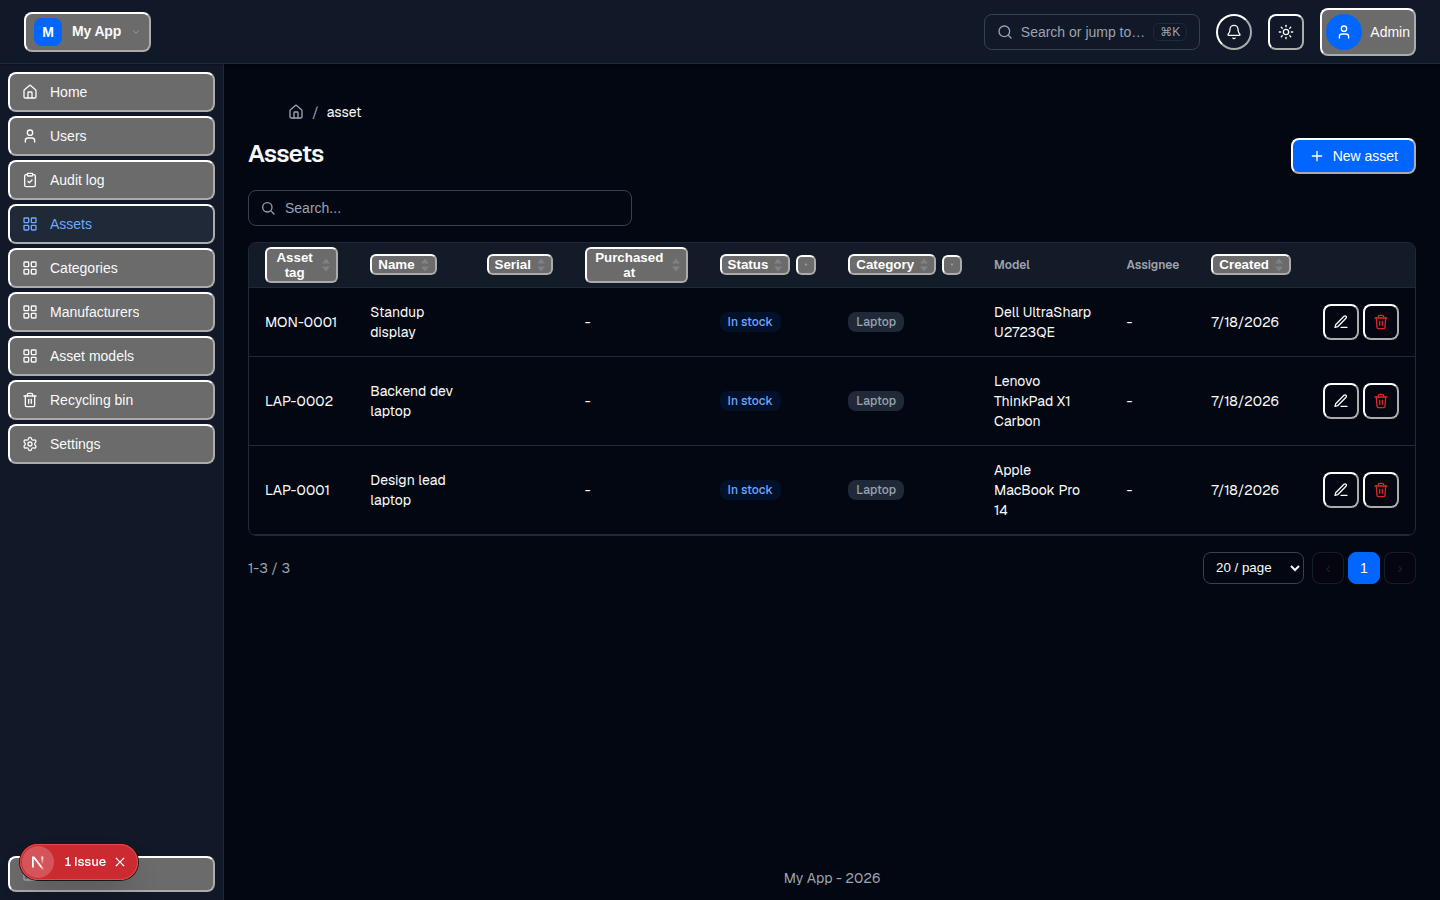
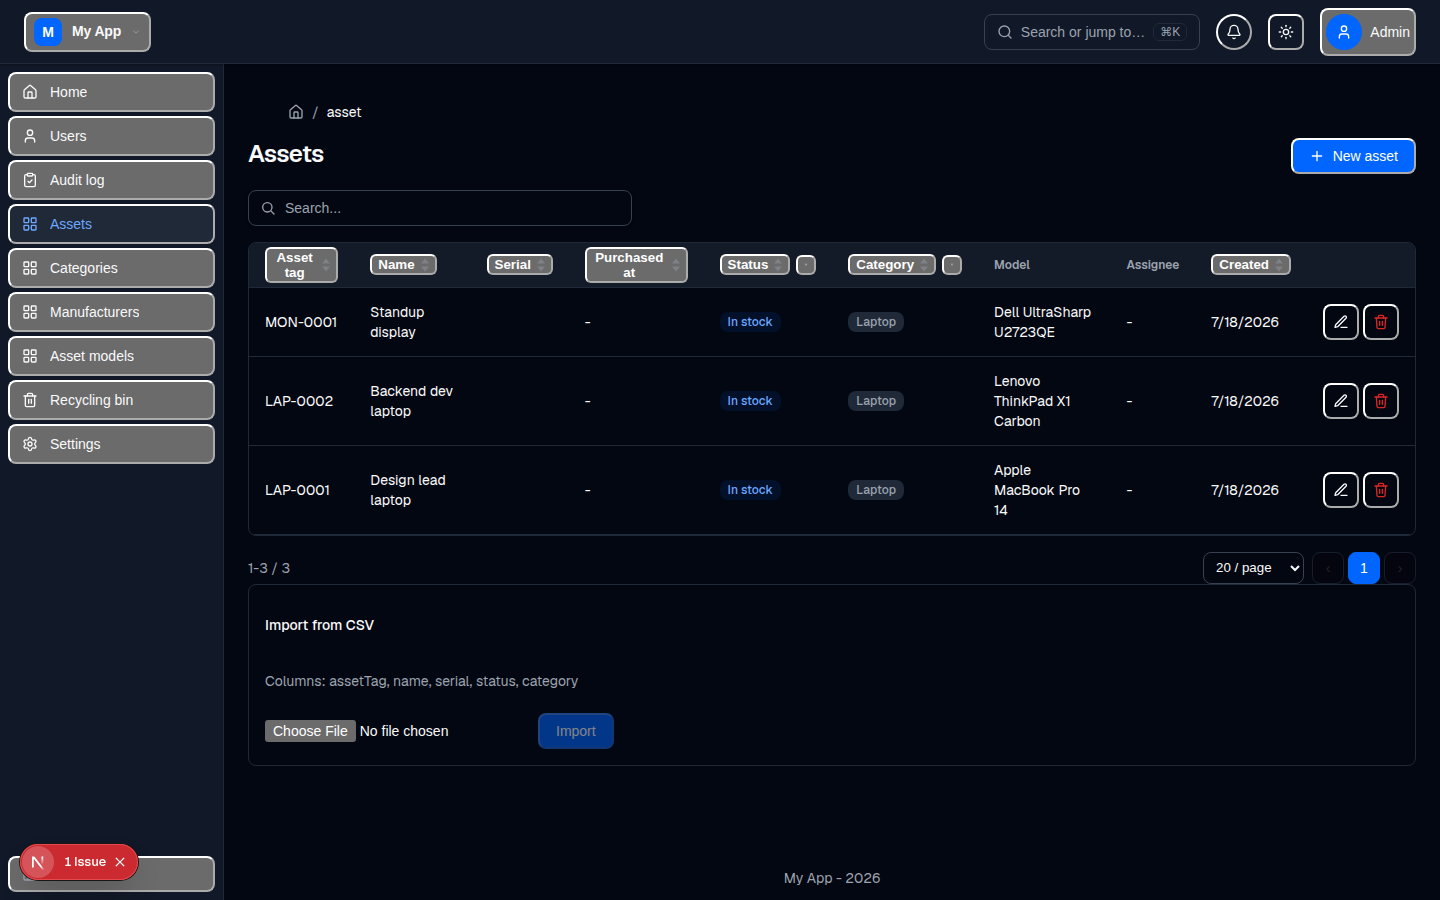
audit(item-5d): Asset Tracker T11 bulk CSV import
Completes the parity build-out (final deferred row T11).

- lib/csv.ts: hand-rolled, quoted-field-aware CSV parser (no runtime dep;
  build-vs-buy ledgered) + parseCsvToObjects. Unit-tested (tests/contracts/
  csv.test.ts, 5 cases: quotes/commas/CRLF/header-keying/empty).
- POST /api/asset/import (editor-gated, rate-limited): validates every row with
  createAssetSchema, checks in-batch + existing duplicate tags, then creates all
  rows with per-row prisma.asset.create inside ONE $transaction — NOT createMany
  (ADR-010 / no-unaudited-bulk-write). Atomic, ≤500-row cap, row-indexed errors.
- components/asset/AssetImport.tsx: list-page import panel (file → parse → POST →
  honest result); on success re-keys the list query to refetch.

Verified END-TO-END in-browser (Playwright): logged in, uploaded a 2-row CSV
(incl. a quoted-comma field), imported → 2 assets created (3→5) and BOTH carry
CREATE audit_logs rows — runtime proof the audit path ran (not a bulk bypass).
/ship green (24/24). Blueprint parity T11 → IN; the V2-210/parity register line
(T2/T9/T11) is now fully resolved. Also gitignored .playwright-mcp/ artifacts.

Claude-Session: https://claude.ai/code/session_01Ddin7kVRKheDcidanm3ba8

Changed region(s): [[0.1875, 0.7467, 0.4375, 0.84], [0.1875, 0.6844, 0.25, 0.7156]]

diff --git a/app/api/asset/import/route.ts b/app/api/asset/import/route.ts
@@ -1,0 +1,78 @@
+import { NextRequest } from "next/server";
+import { prisma } from "@/lib/prisma";
+import { withEditorAuth, withRateLimit } from "@/lib/api-helpers";
+import { ok, err } from "@/lib/api-response";
+import { parseCsvToObjects } from "@/lib/csv";
+import { createAssetSchema } from "@/lib/validations/asset";
+import type { Prisma } from "@/generated/prisma/client";
+
+const MAX_ROWS = 500; // bounded batch — keeps the audited per-row create loop within budget.
+
+/**
+ * Bulk-import assets from CSV (T11). Editor-gated, rate-limited. Validates every row
+ * with the same `createAssetSchema` as the single POST, then creates them with per-row
+ * `prisma.asset.create` inside ONE `$transaction` — NOT `createMany` (which bypasses the
+ * audit + soft-delete extensions, `no-unaudited-bulk-write` / ADR-010). Atomic: any bad
+ * row (validation, in-batch duplicate, or existing tag) aborts the whole import with a
+ * row-indexed error report; nothing is written unless every row is valid.
+ */
+export const POST = withRateLimit(
+  withEditorAuth(async (request: NextRequest) => {
+    const body = await request.json().catch(() => null);
+    const csv = body && typeof body.csv === "string" ? body.csv : "";
+    const rows = parseCsvToObjects(csv);
+
+    if (rows.length === 0) return err("No data rows found in the CSV.");
+    if (rows.length > MAX_ROWS) {
+      return err(`Too many rows (${rows.length}); import at most ${MAX_ROWS} at a time.`);
+    }
+
+    // Validate every row up-front (fail the whole batch on any error — atomic import).
+    // CSV import covers the scalar columns only; custom-field VALUES are not imported here.
+    const valid: Prisma.AssetUncheckedCreateInput[] = [];
+    const errors: string[] = [];
+    rows.forEach((r, i) => {
+      const candidate = {
+        assetTag: r.assetTag,
+        name: r.name,
+        serial: r.serial || undefined,
+        purchasedAt: r.purchasedAt || undefined,
+        status: r.status || "IN_STOCK",
+        category: r.category || "LAPTOP",
+      };
+      const res = createAssetSchema.safeParse(candidate);
+      if (!res.success) {
+        errors.push(`Row ${i + 2}: ${res.error.issues.map((x) => x.message).join(", ")}`);
+      } else {
+        const { customFields: _cf, ...scalars } = res.data;
+        valid.push(scalars);
+      }
+    });
+
+    // In-batch duplicate asset tags.
+    const seen = new Set<string>();
+    for (let i = 0; i < valid.length; i++) {
+      const tag = valid[i].assetTag;
+      if (seen.has(tag)) errors.push(`Duplicate asset tag in file: ${tag}`);
+      seen.add(tag);
+    }
+
+    // Tags that already exist in the DB.
+    if (seen.size > 0) {
+      const existing = await prisma.asset.findMany({
+        where: { assetTag: { in: [...seen] } },
+        select: { assetTag: true },
+        take: MAX_ROWS,
+      });
+      for (const e of existing) errors.push(`Asset tag already in use: ${e.assetTag}`);
+    }
+
+    if (errors.length > 0) return err(errors.join("; "));
+
+    // Per-row audited creates inside one transaction (NOT createMany — ADR-010).
+    await prisma.$transaction(valid.map((data) => prisma.asset.create({ data })));
+
+    return ok({ imported: valid.length });
+  }),
+  { id: "asset-import", limit: 10, windowMs: 60000 },
+);

diff --git a/components/asset/AssetImport.tsx b/components/asset/AssetImport.tsx
@@ -1,0 +1,77 @@
+"use client";
+
+import { useState } from "react";
+import type { ChangeEvent } from "react";
+import { useTranslations } from "next-intl";
+import { Button } from "@/components/ui/button";
+
+type Status = { kind: "idle" | "loading" | "ok" | "error"; msg?: string };
+
+/**
+ * CSV bulk-import panel for assets (T11). Reads a file client-side, POSTs its text to
+ * `/api/asset/import`, and shows an honest per-batch result (success count or the
+ * row-indexed error string the route returns). On success, calls `onImported` so the
+ * list refetches. On-token; all copy through next-intl.
+ */
+export function AssetImport({ onImported }: { onImported?: () => void }) {
+  const t = useTranslations("assets");
+  const [csv, setCsv] = useState("");
+  const [status, setStatus] = useState<Status>({ kind: "idle" });
+
+  const onFile = async (e: ChangeEvent<HTMLInputElement>) => {
+    const f = e.target.files?.[0];
+    if (!f) return;
+    setCsv(await f.text());
+    setStatus({ kind: "idle" });
+  };
+
+  const doImport = async () => {
+    if (!csv) return;
+    setStatus({ kind: "loading" });
+    try {
+      const res = await fetch("/api/asset/import", {
+        method: "POST",
+        headers: { "Content-Type": "application/json" },
+        body: JSON.stringify({ csv }),
+      });
+      const j: { data?: { imported?: number }; error?: string } = await res.json();
+      if (!res.ok) {
+        setStatus({ kind: "error", msg: j.error ?? t("importFailed") });
+        return;
+      }
+      setStatus({ kind: "ok", msg: t("importSuccess", { count: j.data?.imported ?? 0 }) });
+      setCsv("");
+      onImported?.();
+    } catch {
+      setStatus({ kind: "error", msg: t("importFailed") });
+    }
+  };
+
+  return (
+    <div className="flex flex-col gap-2 rounded-md border border-border p-4">
+      <p className="text-sm font-medium text-foreground">{t("importTitle")}</p>
+      <p className="text-sm text-muted-foreground">{t("importHint")}</p>
+      <div className="flex flex-wrap items-center gap-2">
+        <input
+          type="file"
+          accept=".csv,text/csv"
+          onChange={onFile}
+          aria-label={t("importTitle")}
+          className="text-sm text-foreground"
+        />
+        <Button type="button" onClick={doImport} disabled={!csv || status.kind === "loading"}>
+          {status.kind === "loading" ? t("importing") : t("importAction")}
+        </Button>
+      </div>
+      {status.msg ? (
+        <p
+          className={
+            status.kind === "error" ? "text-sm text-destructive" : "text-sm text-foreground"
+          }
+        >
+          {status.msg}
+        </p>
+      ) : null}
+    </div>
+  );
+}

diff --git a/lib/csv.ts b/lib/csv.ts
@@ -1,0 +1,60 @@
+// Minimal CSV parser for the bounded, known-schema asset import (T11). Single-pass
+// state machine: handles "quoted, fields", escaped "" quotes, and CR/LF line ends.
+// Not a full RFC-4180 streaming parser — a fork needing that scales up to `csv-parse`
+// (build-vs-buy ledger, 2026-07-18).
+
+/** Parse CSV text into a 2-D array of string cells. Blank lines are dropped. */
+export function parseCsv(text: string): string[][] {
+  const rows: string[][] = [];
+  let field = "";
+  let row: string[] = [];
+  let inQuotes = false;
+
+  for (let i = 0; i < text.length; i++) {
+    const c = text[i];
+    if (inQuotes) {
+      if (c === '"') {
+        if (text[i + 1] === '"') {
+          field += '"';
+          i++;
+        } else {
+          inQuotes = false;
+        }
+      } else {
+        field += c;
+      }
+    } else if (c === '"') {
+      inQuotes = true;
+    } else if (c === ",") {
+      row.push(field);
+      field = "";
+    } else if (c === "\n") {
+      row.push(field);
+      rows.push(row);
+      field = "";
+      row = [];
+    } else if (c !== "\r") {
+      field += c;
+    }
+  }
+  if (field.length > 0 || row.length > 0) {
+    row.push(field);
+    rows.push(row);
+  }
+  // Drop fully-empty lines (e.g. a trailing newline).
+  return rows.filter((r) => r.some((cell) => cell.trim() !== ""));
+}
+
+/** Parse CSV into objects keyed by the (trimmed) header row. */
+export function parseCsvToObjects(text: string): Record<string, string>[] {
+  const rows = parseCsv(text);
+  if (rows.length === 0) return [];
+  const headers = rows[0].map((h) => h.trim());
+  return rows.slice(1).map((r) => {
+    const obj: Record<string, string> = {};
+    headers.forEach((h, i) => {
+      obj[h] = (r[i] ?? "").trim();
+    });
+    return obj;
+  });
+}

diff --git a/app/[locale]/(dashboard)/asset/page.tsx b/app/[locale]/(dashboard)/asset/page.tsx
@@ -9,6 +9,7 @@ import type { SortChange } from "@/components/shared/DataTable";
 import { PageHeader } from "@/components/shared/PageHeader";
 import { EmptyState } from "@/components/shared/EmptyState";
 import { getAssetColumns, type AssetRecord } from "@/components/asset/AssetColumns";
+import { AssetImport } from "@/components/asset/AssetImport";
 import { useEntityList, useEntityMutations } from "@/hooks/use-entity-queries";
 import { useNotify } from "@/hooks/use-notify";
 
@@ -41,6 +42,8 @@ export default function AssetsPage() {
   const [sort, setSort] = useState<SortChange>({});
   const [status, setStatus] = useState<string>();
   const [category, setCategory] = useState<string>();
+  // Bumped after a bulk import to re-key the list query so it refetches (the API ignores `_r`).
+  const [refreshNonce, setRefreshNonce] = useState(0);
 
   const params: Record<string, string> = {
     page: String(page),
@@ -50,6 +53,7 @@ export default function AssetsPage() {
     ...(sort.order ? { order: sort.order === "ascend" ? "asc" : "desc" } : {}),
     ...(status ? { status } : {}),
     ...(category ? { category } : {}),
+    ...(refreshNonce ? { _r: String(refreshNonce) } : {}),
   };
 
   // Declarative data layer (ADR-021): the query caches + keeps the previous page
@@ -123,6 +127,7 @@ export default function AssetsPage() {
           />
         }
       />
+      <AssetImport onImported={() => setRefreshNonce((n) => n + 1)} />
     </>
   );
 }

diff --git a/tests/contracts/csv.test.ts b/tests/contracts/csv.test.ts
@@ -1,0 +1,41 @@
+import { test } from "node:test";
+import assert from "node:assert/strict";
+import { parseCsv, parseCsvToObjects } from "../../lib/csv";
+
+test("parseCsv splits simple rows and drops blank lines", () => {
+  const rows = parseCsv("a,b,c\n1,2,3\n\n4,5,6\n");
+  assert.deepEqual(rows, [
+    ["a", "b", "c"],
+    ["1", "2", "3"],
+    ["4", "5", "6"],
+  ]);
+});
+
+test("parseCsv handles quoted fields with commas, quotes, and newlines", () => {
+  const rows = parseCsv('name,note\n"Doe, John","said ""hi"""\n"multi\nline",x');
+  assert.deepEqual(rows, [
+    ["name", "note"],
+    ["Doe, John", 'said "hi"'],
+    ["multi\nline", "x"],
+  ]);
+});
+
+test("parseCsv tolerates CRLF line endings", () => {
+  assert.deepEqual(parseCsv("a,b\r\n1,2\r\n"), [
+    ["a", "b"],
+    ["1", "2"],
+  ]);
+});
+
+test("parseCsvToObjects keys rows by the trimmed header", () => {
+  const objs = parseCsvToObjects("assetTag, name \nLAP-1,Laptop\nLAP-2,Monitor");
+  assert.deepEqual(objs, [
+    { assetTag: "LAP-1", name: "Laptop" },
+    { assetTag: "LAP-2", name: "Monitor" },
+  ]);
+});
+
+test("parseCsvToObjects returns [] for header-only or empty input", () => {
+  assert.deepEqual(parseCsvToObjects(""), []);
+  assert.deepEqual(parseCsvToObjects("assetTag,name\n"), []);
+});

diff --git a/docs/findings-register.md b/docs/findings-register.md
@@ -317,8 +317,15 @@ the changed surface is still **open** (un-adjudicated).
   (5c): `CustomFieldDef` entity (migration `20260718161010`, admin-managed via `/api/custom-field-def`)
   - `Asset.customFields` Json; the form renders one input per active def (fetched live) and the API
     boundary validates values against the defs (required/type/unknown-key) via `validateCustomFields`;
-    captured live (seeded "Cost center"/"Warranty expiry" render on the form). **T11 (CSV import) remains
-    `scheduled`** — the final sub-phase (5d). See the V2-307 line for the CTA fix that landed earlier.
+    captured live (seeded "Cost center"/"Warranty expiry" render on the form). — **T11 (CSV import) is
+    now BUILT + verified** (5d): `POST /api/asset/import` (editor-gated, rate-limited) parses CSV via
+    the hand-rolled unit-tested `lib/csv.ts`, validates each row with `createAssetSchema`, and creates
+    them with per-row `prisma.asset.create` inside ONE `$transaction` — **NOT `createMany`** (ADR-010 /
+    `no-unaudited-bulk-write`), atomic + row-indexed errors + a ≤500 cap; a list-page panel drives it.
+    **Proven end-to-end in-browser**: a 2-row CSV (incl. a quoted-comma field) → 2 assets created (3→5)
+    → **both carry CREATE audit_logs rows** (runtime proof the audit path ran, not a bulk bypass). **All
+    three deferred rows T2/T9/T11 are DONE** — this V2-210/parity line is fully resolved. See V2-307 for
+    the CTA fix.
 
 - 2026-07-17 — [harness-v2 V2-210/correctness] the pilot's two-stage senior review found 1 High + 2
   Medium + 1 Low in the hand-layered pilot code (Stage 1 confirmed scope-clean + caught the AC drift;

diff --git a/docs/build-vs-buy-ledger.md b/docs/build-vs-buy-ledger.md
@@ -591,3 +591,16 @@ sortable})`** returning `{ pagination, where, orderBy }` (where typed via a call
 `Prisma.*WhereInput` generic so the routes stay type-safe and the sort allowlist stays injection-safe).
 Zero new dependency; reuses the shipped `parsePagination`. The list-route sibling of the shared
 `RowActions`/`RelationSelect` extractions.
+
+## 2026-07-18 — Minimal CSV parser (`lib/csv.ts`)
+
+Scope: lib/csv.ts
+Considered: **a CSV library** (`papaparse` ~45KB, `csv-parse`, `@fast-csv/parse` — all rejected:
+each is a runtime dep >50KB min or drags a stream API, tripping the "runtime dep >50KB needs an
+ADR" Ask-before gate for a bounded, known-schema, ≤500-row asset import that needs only quoted-field
+
+- CRLF handling), **`String.split(',')`** (rejected — breaks on quoted fields containing commas /
+  newlines, the classic CSV footgun). Decision: **BUILD a ~40-line `lib/csv.ts`** (`parseCsv` — a
+  single-pass state machine handling `"quoted, fields"`, escaped `""`, and CR/LF; `parseCsvToObjects`
+  — header-keyed rows). Zero runtime dep; scoped to the T11 import path. If a fork needs streaming or
+  RFC-4180 edge cases at volume, `/scale-up` to `csv-parse` (a later ADR).

diff --git a/docs/blueprints/asset-tracker.md b/docs/blueprints/asset-tracker.md
@@ -34,7 +34,7 @@ template's `/scaffold-entity` is the closest same-stack path (ADR-059).
 | T8 Full audit history             | IN           | → auditExtension (auto, app-floor)                                                         |
 | T9 Custom fields                  | IN           | → `CustomFieldDef` + `Asset.customFields` (dynamic form + boundary validation, 2026-07-18) |
 | T10 Search + filter + list export | IN           | → shared DataTable (app-floor)                                                             |
-| T11 Bulk import (CSV)             | DEFERRED     | → findings-register (`/scale-up` import recipe)                                            |
+| T11 Bulk import (CSV)             | IN           | → `POST /api/asset/import` (audited `$transaction`, not `createMany`; 2026-07-18)          |
 | T12 Role-based access             | IN           | → US2 `withEditorAuth` on writes                                                           |
 
 (DEFERRED rows are tracked in `docs/findings-register.md`; anti-features A1–A5 from the benchmark —
